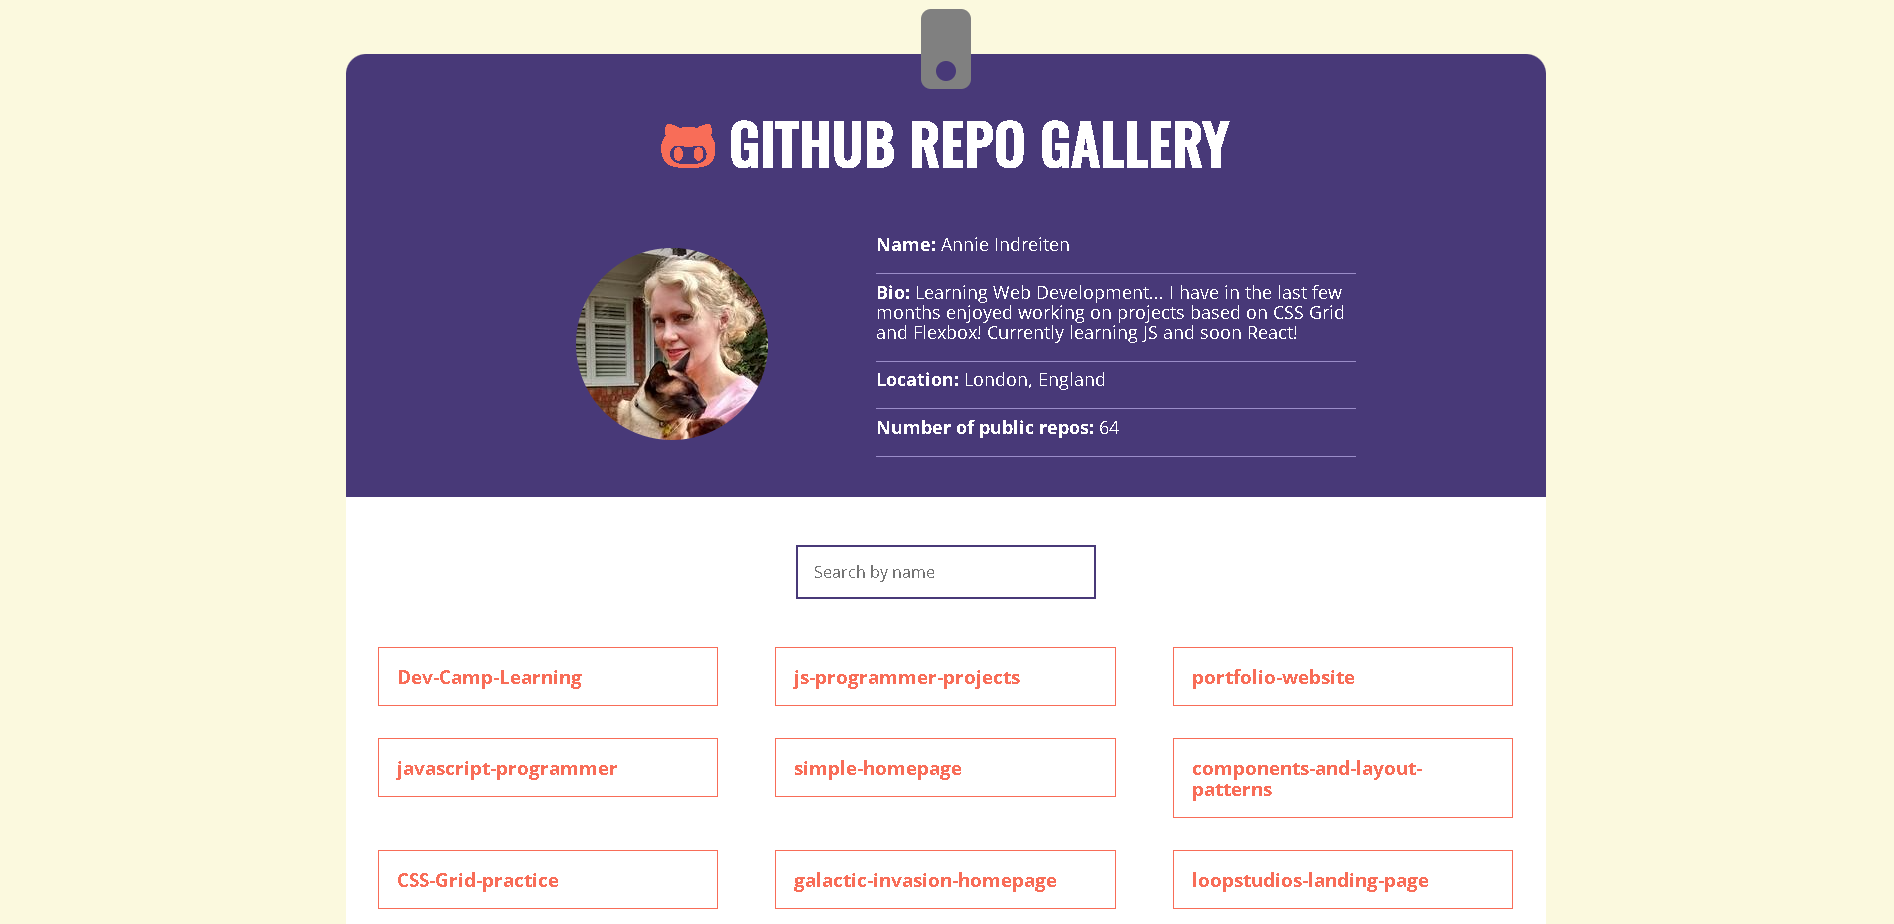
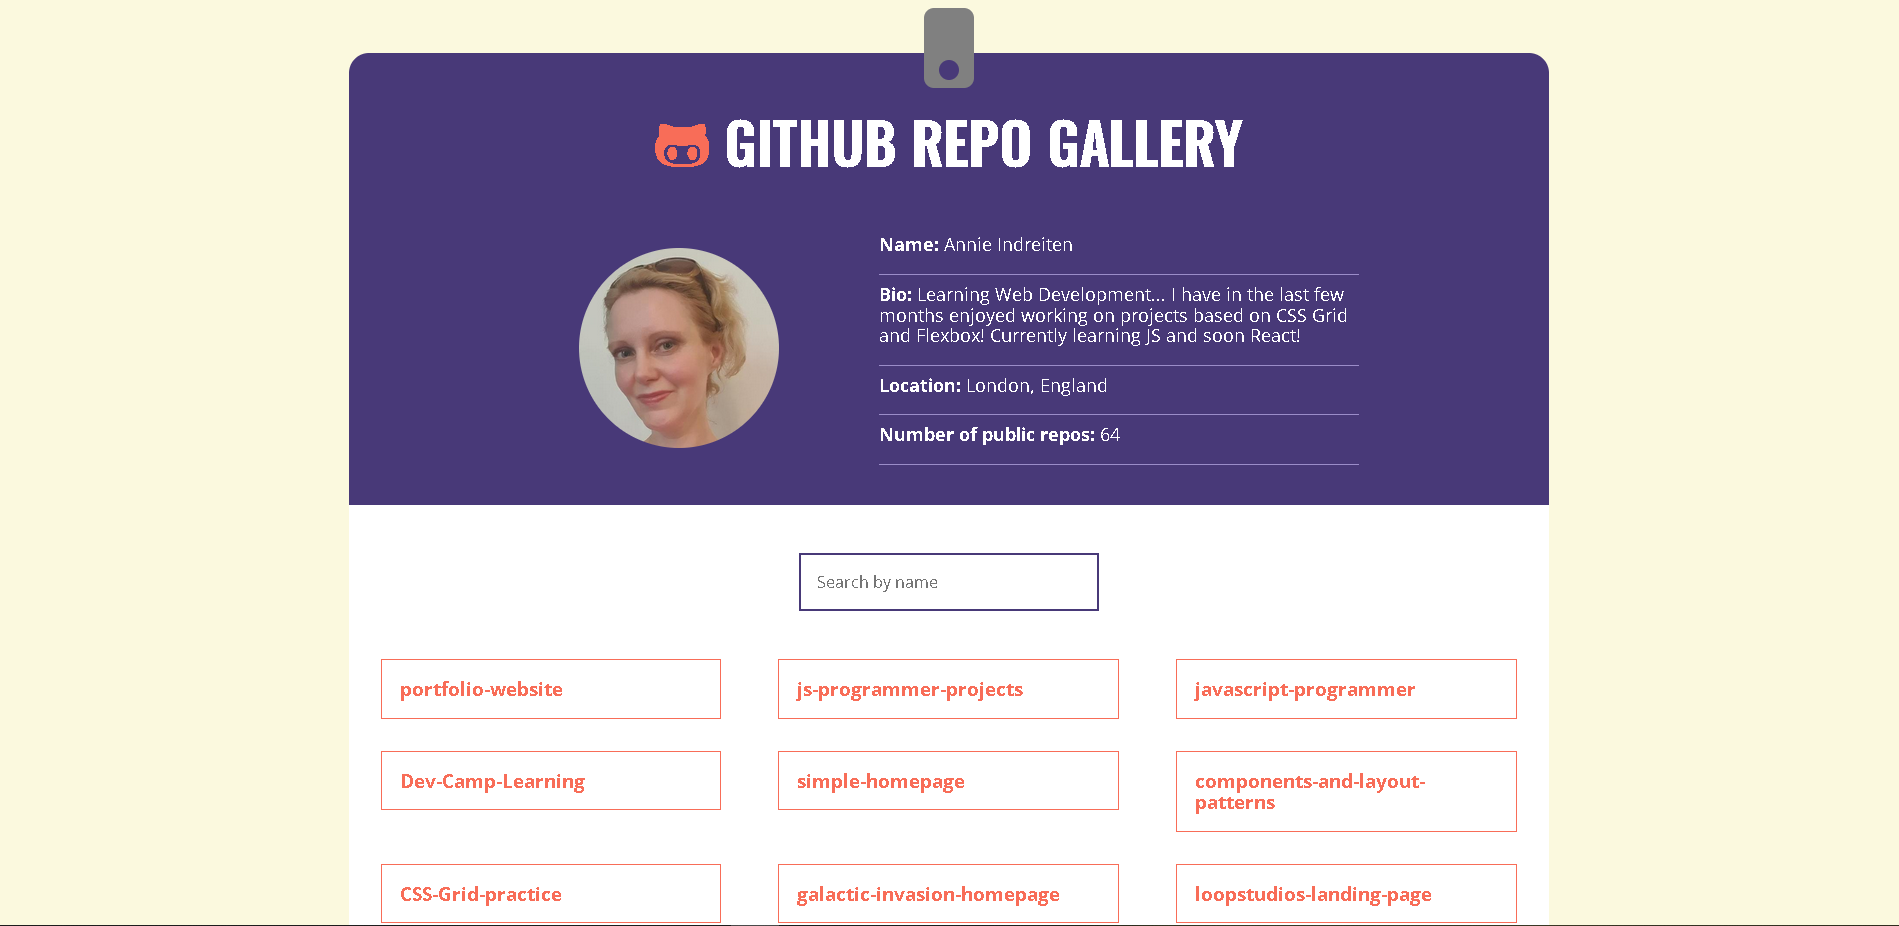
Screenshots updated

diff --git a/index.html b/index.html
@@ -93,7 +93,7 @@
         </div>
       </div>
       <div class="hero-img">
-        <img src="./images/Me-dummy-trans.png" alt="" class="img-hero">
+        <img src="./images/hero1.jpg" alt="" class="img-hero">
       </div>
 
     </section>
